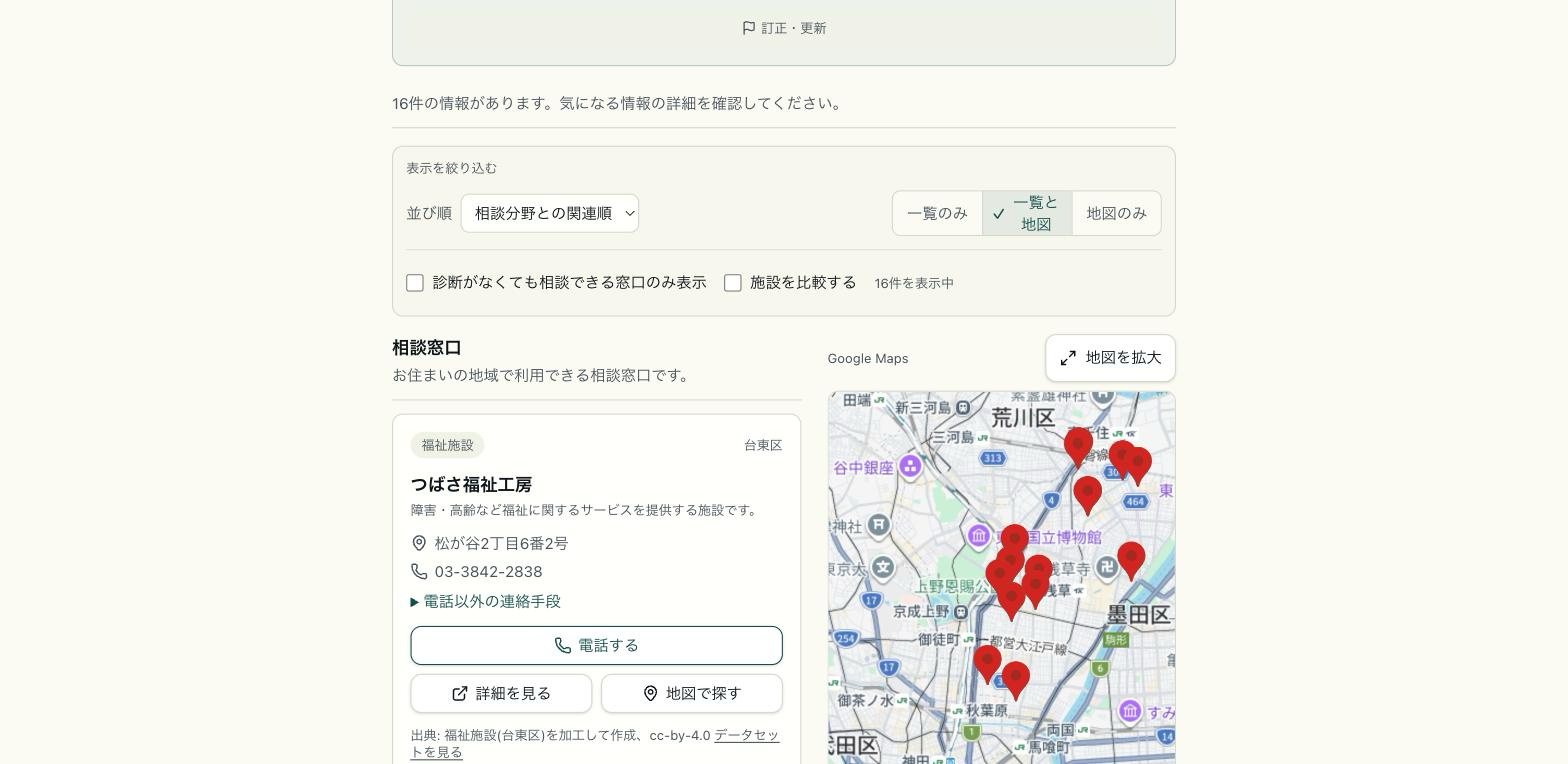
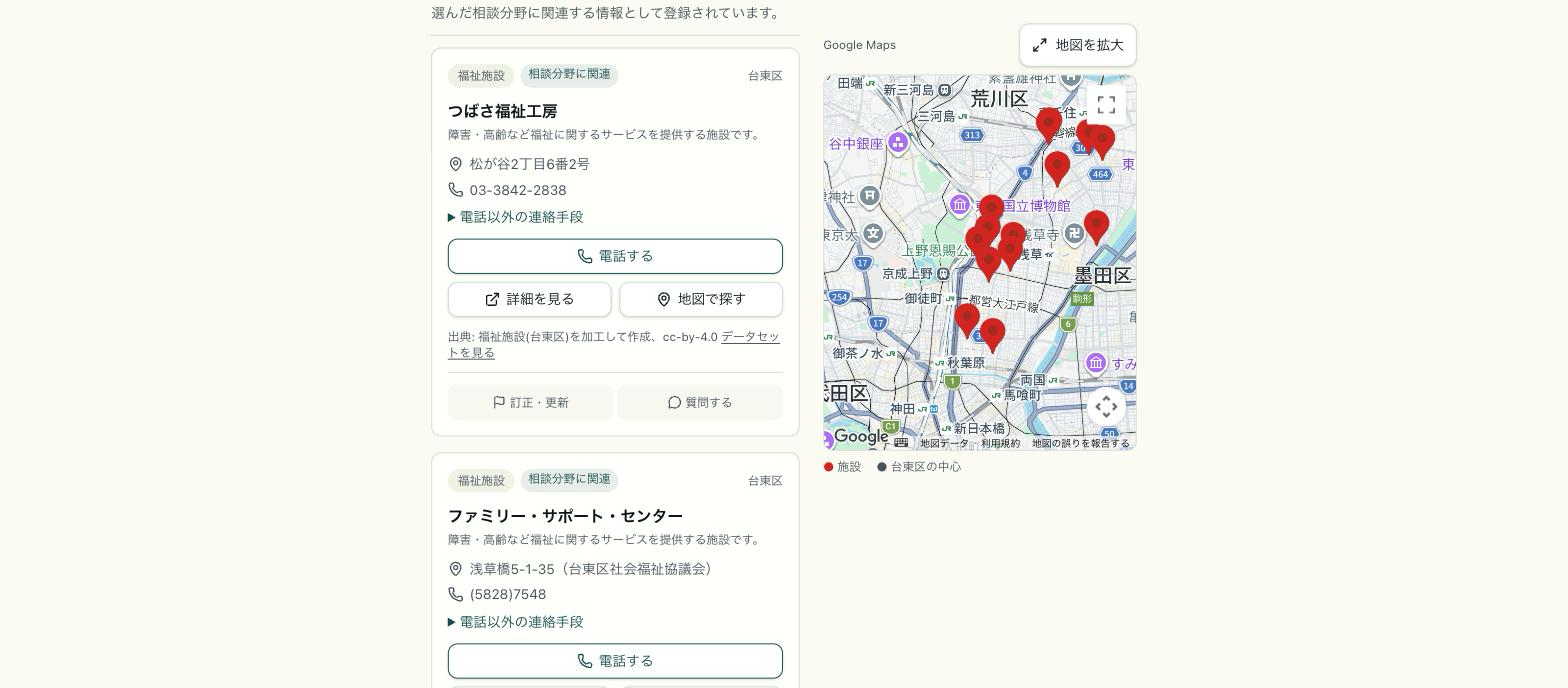
Fix accuracy, privacy wording, cropping, and OSS hygiene issues
Content accuracy:
- Restore CivicUnknot team name on the cover slide (lost when the
  cover was redesigned)
- Fix "カテゴリ名のみを送るAI解説" — the actual consent screen also
  sends the free-text description, not just category names; changed
  to "送信内容を事前確認できるAI解説"
- Replace the "サーバー非送信" badge with "個別回答は非送信" and
  tighten the privacy slide body text, since the AI explain feature
  does send data — only the raw survey answers stay on-device
- Revert demo-slide wording from "利用者に合う公的窓口を...案内"
  back to "条件に合う公的相談窓口・施設候補を...提示", matching the
  data-slide's careful non-recommendation phrasing
- Drop the "87% を掲載済み" figure from the final slide (54/62 reads
  as legitimate coverage, but 87% invites "87% of Tokyo's support
  data" misreadings the coverage breakdown itself contradicts); move
  the /coverage breakdown into the speaker notes instead

Screenshots:
- Recapture result.png to show the tag summary alongside the radar
  chart (previously only the chart was visible)
- Recapture support-map.png to keep Google's map attribution inside
  frame

BrowserFrame:
- Add objectFit/objectPosition props so each screenshot can pick
  what part of the image survives cropping (contain for the tall
  result.png, top for data-sources.png's heading, bottom for
  support-map.png's attribution)
- Fix border-style on the now-clickable CTA being overridden to
  dashed
- Make the cover and closing "デモを試す" CTAs real links

OSS hygiene:
- Drop the local absolute-path doc reference from README.md (not
[…]

Changed region(s): [[0.25, 0.0, 0.75, 1.0], [0.25, 0.061, 0.2812, 0.0916]]

diff --git a/app/components/BrowserFrame.vue b/app/components/BrowserFrame.vue
@@ -7,6 +7,8 @@ const props = defineProps({
   src: { type: String, default: '' },
   alt: { type: String, default: '' },
   height: { type: String, default: '190px' },
+  objectFit: { type: String, default: 'cover' },
+  objectPosition: { type: String, default: 'center' },
 })
 
 const resolvedSrc = computed(() =>
@@ -21,10 +23,15 @@ const resolvedSrc = computed(() =>
       <div class="address-bar">{{ url }}</div>
     </div>
     <div class="viewport" :style="{ height }">
-      <img v-if="resolvedSrc" :src="resolvedSrc" :alt="alt || caption" />
+      <img
+        v-if="resolvedSrc"
+        :src="resolvedSrc"
+        :alt="alt || caption"
+        :style="{ objectFit, objectPosition }"
+      />
       <div v-else class="placeholder">
         <div class="placeholder-title">スクリーンショット未挿入</div>
-        <div class="placeholder-hint">§3.6の手順で撮影した1600×900pxの画像を<br />images/ に追加し、src で参照してください</div>
+        <div class="placeholder-hint">public/images/README.md の手順で撮影した1600×900pxの画像を<br />images/ に追加し、src で参照してください</div>
       </div>
     </div>
     <figcaption v-if="caption">{{ caption }}</figcaption>
@@ -82,7 +89,6 @@ const resolvedSrc = computed(() =>
 .viewport img {
   width: 100%;
   height: 100%;
-  object-fit: cover;
   display: block;
 }
 

diff --git a/app/style.css b/app/style.css
@@ -1,5 +1,3 @@
-@import url('https://fonts.googleapis.com/css2?family=Noto+Sans+JP:wght@400;500;700;900&display=swap');
-
 :root {
   --tc-navy: #16233f;
   --tc-navy-soft: #2b3c5e;
@@ -9,8 +7,8 @@
   --tc-text: #1c1f26;
   --tc-text-muted: #5b6472;
   --tc-border: #dfe3ea;
-  --tc-font: 'Noto Sans JP', 'Hiragino Sans', 'Hiragino Kaku Gothic ProN',
-    'Yu Gothic', 'Meiryo', -apple-system, BlinkMacSystemFont, sans-serif;
+  --tc-font: 'Hiragino Sans', 'Hiragino Kaku Gothic ProN', 'Yu Gothic',
+    'Meiryo', -apple-system, BlinkMacSystemFont, sans-serif;
 }
 
 /* Slidev slide surface: white background, generous padding, no photo-heavy decoration */
@@ -83,7 +81,10 @@
 }
 
 .tc-demo-cta {
-  border: 1px solid var(--tc-green);
+  display: inline-block;
+  border-style: solid !important;
+  border-width: 1px;
+  border-color: var(--tc-green);
   border-radius: 999px;
   padding: 10px 20px;
   color: var(--tc-green);

diff --git a/app/slides.md b/app/slides.md
@@ -11,14 +11,16 @@ drawings:
 transition: none
 mdc: false
 fonts:
-  sans: 'Noto Sans JP'
+  sans: 'Hiragino Sans'
+  provider: none
 ---
 
 <div class="h-full flex flex-col items-center justify-center text-center">
   <div class="tc-eyebrow">都知事杯2026 ハッカソン提出資料</div>
   <div style="font-size:64px; font-weight:900; color:var(--tc-navy); letter-spacing:0.02em;">Trait Compass</div>
   <div style="font-size:28px; font-weight:700; color:var(--tc-green); margin-top:18px;">気づきと相談のあいだをつなぐ</div>
-  <div class="tc-demo-cta" style="margin-top:56px;">デモを試す&nbsp; → &nbsp;trait-compass.trait-compass.workers.dev</div>
+  <div style="font-size:17px; color:var(--tc-text-muted); margin-top:14px;">CivicUnknot</div>
+  <a class="tc-demo-cta" href="https://trait-compass.trait-compass.workers.dev" target="_blank" rel="noopener" style="margin-top:56px; text-decoration:none;">デモを試す&nbsp; → &nbsp;trait-compass.trait-compass.workers.dev</a>
 </div>
 
 <!--
@@ -43,8 +45,8 @@ fonts:
 </div>
 
 <!--
-「自分は発達障害かもしれない」――そう感じても、次の一歩が分からず立ち止まる人は少なくありません。文部科学省の調査では、通常学級の児童生徒の8.8パーセント、11人に1人に、学習面や行動面で著しい困難があるとされています。しかし専門機関の初診までの待機期間は平均2.6か月。この「気づき」と「相談」のあいだの空白を、オープンデータとプライバシー保護設計で埋めるサービスを、私たちは作りました。
-(目安39秒・196字)
+「自分は発達障害かもしれない」と感じても、次の一歩が分からず立ち止まる人は少なくありません。通常学級の児童生徒の8.8パーセント、11人に1人に著しい困難があるとされる一方、専門機関の初診までは平均2.6か月かかります。この空白を、オープンデータとプライバシー保護設計で埋めるサービスを作りました。
+(目安30秒・149字)
 -->
 
 ---
@@ -61,14 +63,14 @@ const demoFlowSteps = [
   <div class="tc-eyebrow">デモ｜サービスデザイン／オーディエンス</div>
   <div class="tc-title">セルフチェックが、相談分野タグに変わる。</div>
   <p class="tc-body" style="margin-bottom:20px;">
-    30問のセルフチェックを、診断名ではなく6つの「相談分野タグ」に変換。ライフステージと居住地を選ぶだけで、利用者に合う公的窓口を地図と一覧で案内します。
+    30問のセルフチェックを、診断名ではなく6つの「相談分野タグ」に変換。ライフステージと居住地を選ぶだけで、条件に合う公的相談窓口・施設候補を地図と一覧で提示します。
   </p>
   <div style="margin-bottom:20px;">
     <DataFlow direction="horizontal" :steps="demoFlowSteps" />
   </div>
   <div class="flex gap-6" style="flex:1;">
-    <BrowserFrame url="trait-compass.trait-compass.workers.dev/result" src="/images/result.png" caption="① 診断名ではなく、相談分野タグで示す" height="180px" />
-    <BrowserFrame url="trait-compass.trait-compass.workers.dev/support" src="/images/support-map.png" caption="② 地図と一覧から、公的窓口を選べる" height="180px" />
+    <BrowserFrame url="trait-compass.trait-compass.workers.dev/result" src="/images/result.png" caption="① 診断名ではなく、相談分野タグで示す" height="180px" object-fit="contain" />
+    <BrowserFrame url="trait-compass.trait-compass.workers.dev/support" src="/images/support-map.png" caption="② 地図と一覧から、公的窓口を選べる" height="180px" object-position="bottom" />
   </div>
   <div class="tc-note">
     チェックをしなくても支援情報だけを探すこともできます。
@@ -99,7 +101,7 @@ const dataSourceFlowSteps = [
       <DataFlow direction="vertical" :steps="dataSourceFlowSteps" />
     </div>
     <div style="flex:1;" class="flex flex-col gap-3">
-      <BrowserFrame url="trait-compass.trait-compass.workers.dev/data-sources" src="/images/data-sources.png" caption="利用しているデータ（/data-sources）" height="130px" />
+      <BrowserFrame url="trait-compass.trait-compass.workers.dev/data-sources" src="/images/data-sources.png" caption="利用しているデータ（/data-sources）" height="130px" object-position="top" />
       <p style="font-size:13px; color:var(--tc-text-muted); line-height:1.7;">
         出典・ライセンス・最終取得日・利用件数を公開し、データの根拠をたどれるようにしています。自治体、公的機関、医療情報ネット、WAM NETなどの情報を横断して扱います。
       </p>
@@ -109,7 +111,7 @@ const dataSourceFlowSteps = [
       <div class="flex gap-2" style="font-size:11px; color:var(--tc-text-muted);">
         <span style="border:1px solid var(--tc-border); border-radius:999px; padding:3px 10px;">CKAN API</span>
         <span style="border:1px solid var(--tc-border); border-radius:999px; padding:3px 10px;">Cloudflare Workers・D1・R2</span>
-        <span style="border:1px solid var(--tc-border); border-radius:999px; padding:3px 10px;">カテゴリ名のみを送るAI解説</span>
+        <span style="border:1px solid var(--tc-border); border-radius:999px; padding:3px 10px;">送信内容を事前確認できるAI解説</span>
       </div>
     </div>
   </div>
@@ -128,14 +130,14 @@ const dataSourceFlowSteps = [
   <div class="tc-eyebrow">プライバシー｜サービスデザイン</div>
   <div class="tc-title">診断せず、送信前に確認できる。</div>
   <p class="tc-body" style="margin-bottom:20px;">
-    回答は端末内だけで処理・保存し、サーバーへ送信しません。AI解説は完全オプトイン。送信前に、送るものと送らないものを必ず確認できます。
+    セルフチェックの個別回答は端末内だけで処理・保存し、サーバーへ送信しません。AI解説は完全オプトインで、送信内容を事前に確認できます。
   </p>
   <div class="flex gap-8" style="flex:1;">
     <div style="flex:1;">
       <BrowserFrame url="trait-compass.trait-compass.workers.dev/result/prepare" src="/images/consent.png" caption="キャプチャ③ AI解説の送信前プレビュー" height="210px" />
     </div>
     <div style="flex:0 0 240px;" class="flex flex-col gap-3 justify-center">
-      <div style="border:1px solid var(--tc-border); border-radius:6px; padding:12px 16px; font-size:14px; font-weight:700; color:var(--tc-navy);">サーバー非送信</div>
+      <div style="border:1px solid var(--tc-border); border-radius:6px; padding:12px 16px; font-size:14px; font-weight:700; color:var(--tc-navy);">個別回答は非送信</div>
       <div style="border:1px solid var(--tc-border); border-radius:6px; padding:12px 16px; font-size:14px; font-weight:700; color:var(--tc-navy);">非診断</div>
       <div style="border:1px solid var(--tc-border); border-radius:6px; padding:12px 16px; font-size:14px; font-weight:700; color:var(--tc-navy);">完全オプトイン</div>
     </div>
@@ -163,23 +165,23 @@ const dataSourceFlowSteps = [
     </div>
     <div style="flex:0 0 320px;" class="flex flex-col items-center justify-center text-center">
       <div style="font-size:88px; font-weight:900; color:var(--tc-navy); line-height:1;">54<span style="font-size:36px; color:var(--tc-navy-soft);">/62</span></div>
-      <div class="tc-coverage-rate">87% を掲載済み</div>
       <div style="font-size:16px; color:var(--tc-text); margin-top:8px;">区市町村で支援情報を掲載</div>
       <div class="tc-note" style="border-top:none; margin-top:20px; text-align:center;">
-        自治体ごとにデータの充足度は異なります。<br />
-        （/coverage: データなし8／1分類のみ41／2分類充足8／3分類すべて充足5）
+        ※自治体ごとにデータの充足度は異なります
       </div>
     </div>
   </div>
   <div class="tc-footer" style="position:static; margin-top:16px;">
     <span></span>
-    <span>デモを試す → trait-compass.trait-compass.workers.dev</span>
+    <a href="https://trait-compass.trait-compass.workers.dev" target="_blank" rel="noopener" style="color:inherit;">デモを試す → trait-compass.trait-compass.workers.dev</a>
   </div>
 </div>
 
 <!--
 症状のラベルではなく、次の一歩へ。すでに都内54の区市町村で支援情報を掲載しながら、この窓口ナビを、東京都の誰もが使える相談の入り口に育てていきます。
 (目安15秒・75字)
+
+充足度の内訳（/coverage、口頭では言わない・スライドを指しながら「充足度は異なります」とだけ触れる）: データなし8／1分類のみ41／2分類充足8／3分類すべて充足5。
 
 原稿作成メモ: 「54の区市町村」は本番/outcomesの実測値。収録直前に必ず最新の自治体数を再確認し、変わっていれば数字を読み替えること。「GovTech東京や区市町村とも連携しながら」は連携実績が未検証のため削除済み・読み上げ原稿にも含めない。
 -->

diff --git a/app/public/images/README.md b/app/public/images/README.md
@@ -2,11 +2,15 @@
 
 4枚とも本番サイト（`https://trait-compass.trait-compass.workers.dev`）から取得済みで、`slides.md` から参照されている。
 
-- `result.png` — キャプチャ① 結果画面（30問回答後の領域別レーダーチャート）
-- `support-map.png` — キャプチャ② 窓口マッチング地図（台東区・社会人で検索、ピンが複数立つ状態）
+- `result.png` — キャプチャ① 結果画面（30問回答後の「相談分野タグ」の要約＋領域別レーダーチャート。ページを縮小表示し、タグとチャートが同時に見える構図で撮影）
+- `support-map.png` — キャプチャ② 窓口マッチング地図（台東区・社会人で検索、ピンが複数立ちGoogle Mapsの帰属表示が見える状態）
 - `consent.png` — キャプチャ③ AI解説の送信前プレビュー（「送信されるもの／送信されないもの」の同意ダイアログ。実際に送信はしていない）
 - `data-sources.png` — `/data-sources` ページ（スライド③のデータ透明性セクション用）
 
 ## 撮り直す場合
 
-本番データは日々更新されるため、提出直前に最新の見た目で撮り直したい場合は、`trait-compass 提出用プレゼン資料...md` §3.6 の手順（Chrome DevTools の Device Toolbar を 1600×900px に設定し「Capture screenshot」）で撮影し、同じファイル名で上書きする。ローカル開発環境のダミーデータではなく本番URLで撮影すること。
+本番データは日々更新されるため、提出直前に最新の見た目で撮り直したい場合は、以下の手順で撮影し、同じファイル名で上書きする。
+
+1. Chrome で対象ページ（本番URL、ローカル開発環境のダミーデータは使わない）を開き、`Cmd+Option+I`（Windowsは`Ctrl+Shift+I`）で DevTools を開く。
+2. `Cmd+Shift+M`（DevTools 左上のスマホ/タブレットのアイコン）で Device Toolbar を有効化し、幅「1600」・高さ「900」を指定する。
+3. `Cmd+Shift+P` でコマンドパレットを開き、「Capture screenshot」と入力して実行する。表示中のビューポートがそのまま PNG として保存される。

diff --git a/README.md b/README.md
@@ -10,7 +10,7 @@ Trait Compass 提出用プレゼン資料（6枚・16:9・1280×720相当）を 
 - **trait-compass-slides** — このリポジトリ。プレゼン資料本体（Slidev + Vue）のソースコードを管理しています。
 - **trait-compass**（[yunbow/trait-compass](https://github.com/yunbow/trait-compass)） — CivicUnknot が開発しているハッカソン応募作品。実装・データ・詳細設計は上記リポジトリで管理しています。
 
-文言・統計値は `/Users/yun2/Project/hackathon/trait-compass/trait-compass 提出用プレゼン資料（PPT_PDF）・画面キャプチャ下書き（2026-08-20）.md` §2 の確定内容から一字一句変更していません。
+文言・統計値は Trait Compass 本体リポジトリ（[yunbow/trait-compass](https://github.com/yunbow/trait-compass)）および大会提出用に確認した一次情報を基準としています。
 
 ## 技術スタック
 
@@ -56,7 +56,7 @@ app/
 │   ├── DataFlow.vue       # 処理フロー図（縦: ③、横: ②）
 │   └── BrowserFrame.vue   # 実UIスクリーンショットを収めるブラウザ枠（未挿入時はプレースホルダー表示）
 ├── public/images/         # 画面キャプチャ（本番サイトから取得済み。README参照）
-│   ├── result.png         # キャプチャ① 結果画面（レーダーチャート）
+│   ├── result.png         # キャプチャ① 結果画面（相談分野タグ＋レーダーチャート）
 │   ├── support-map.png    # キャプチャ② 窓口マッチング地図（台東区で撮影）
 │   ├── consent.png        # キャプチャ③ AI解説の送信前プレビュー
 │   └── data-sources.png   # /data-sources ページ
